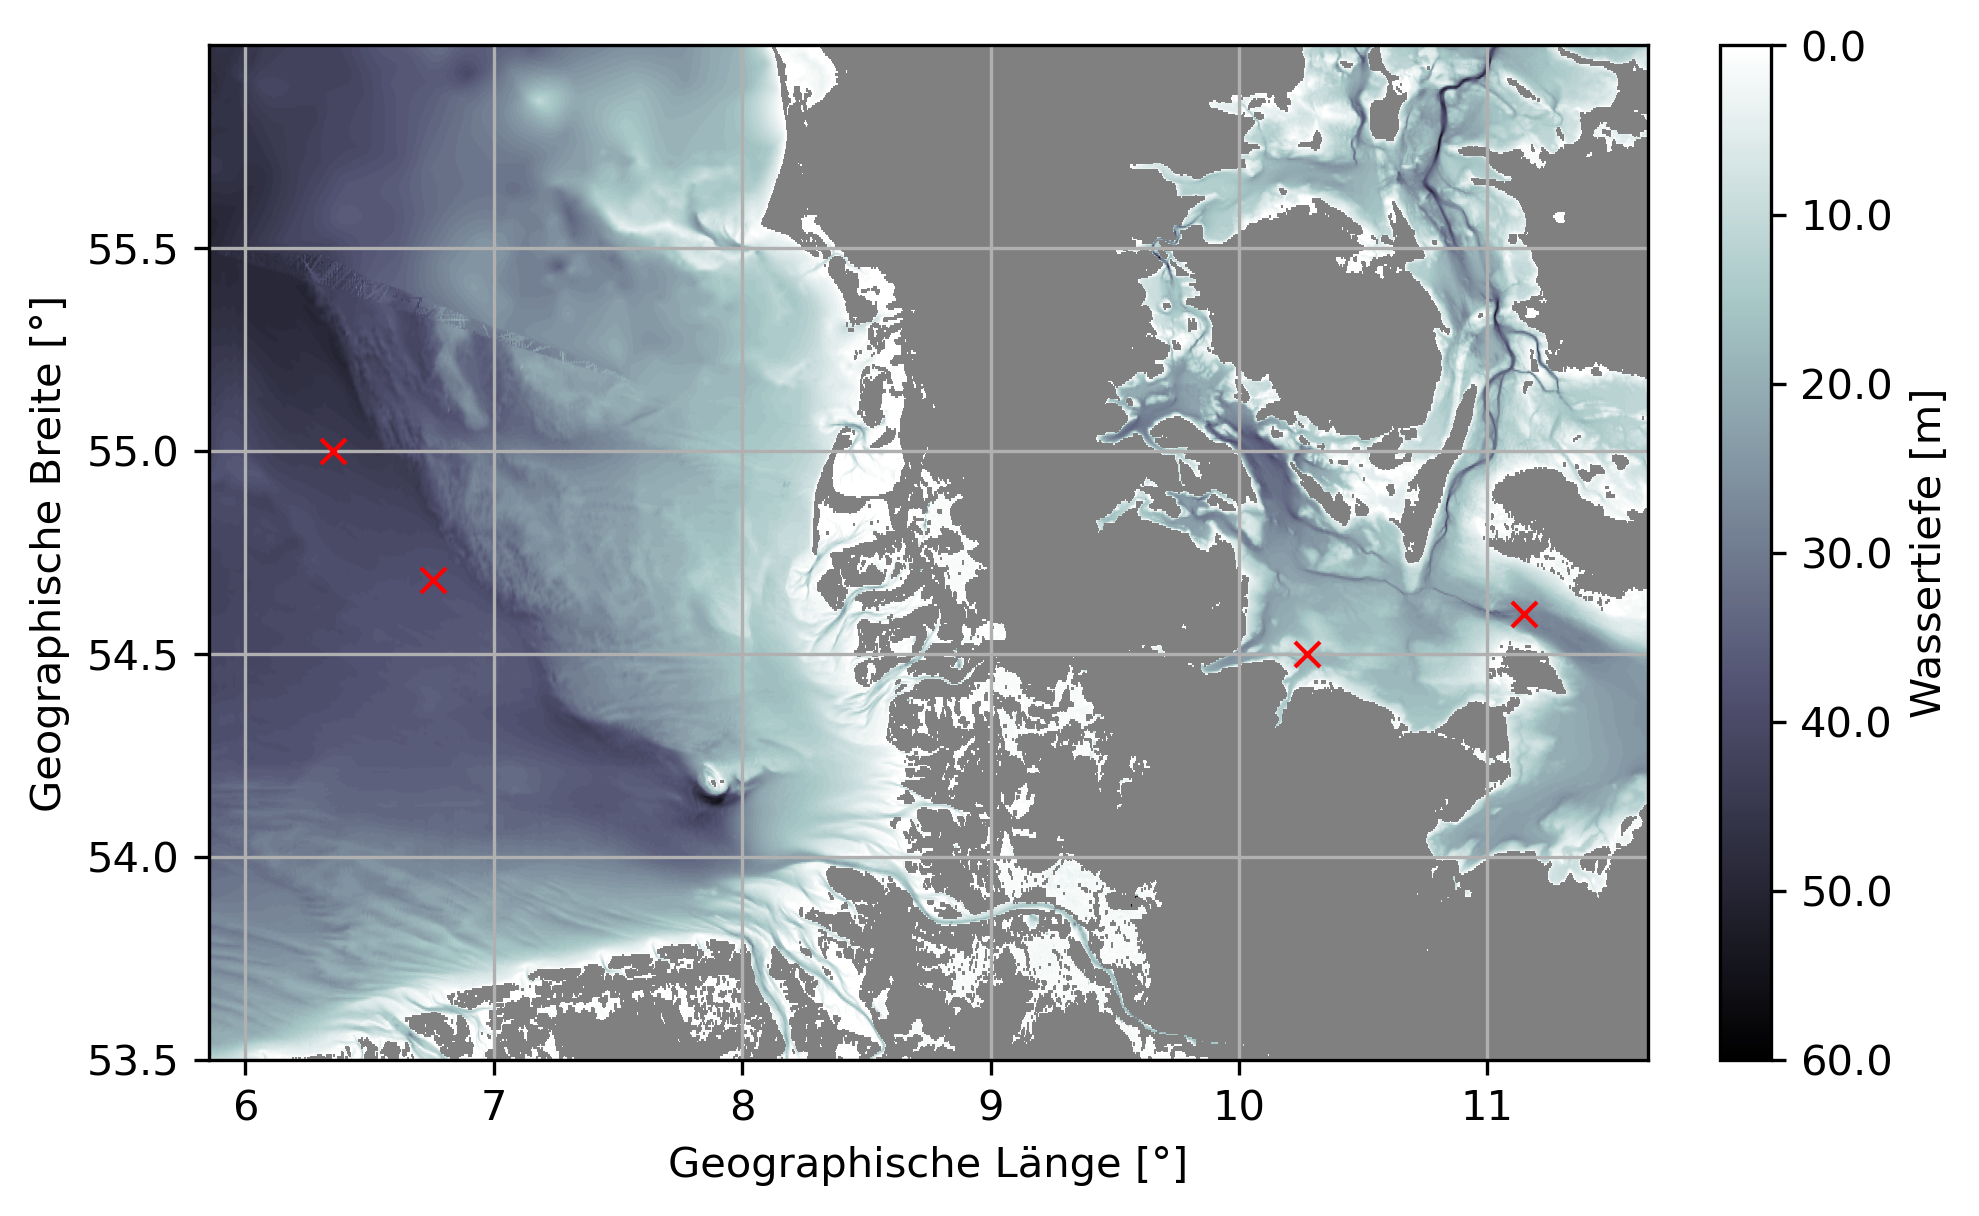
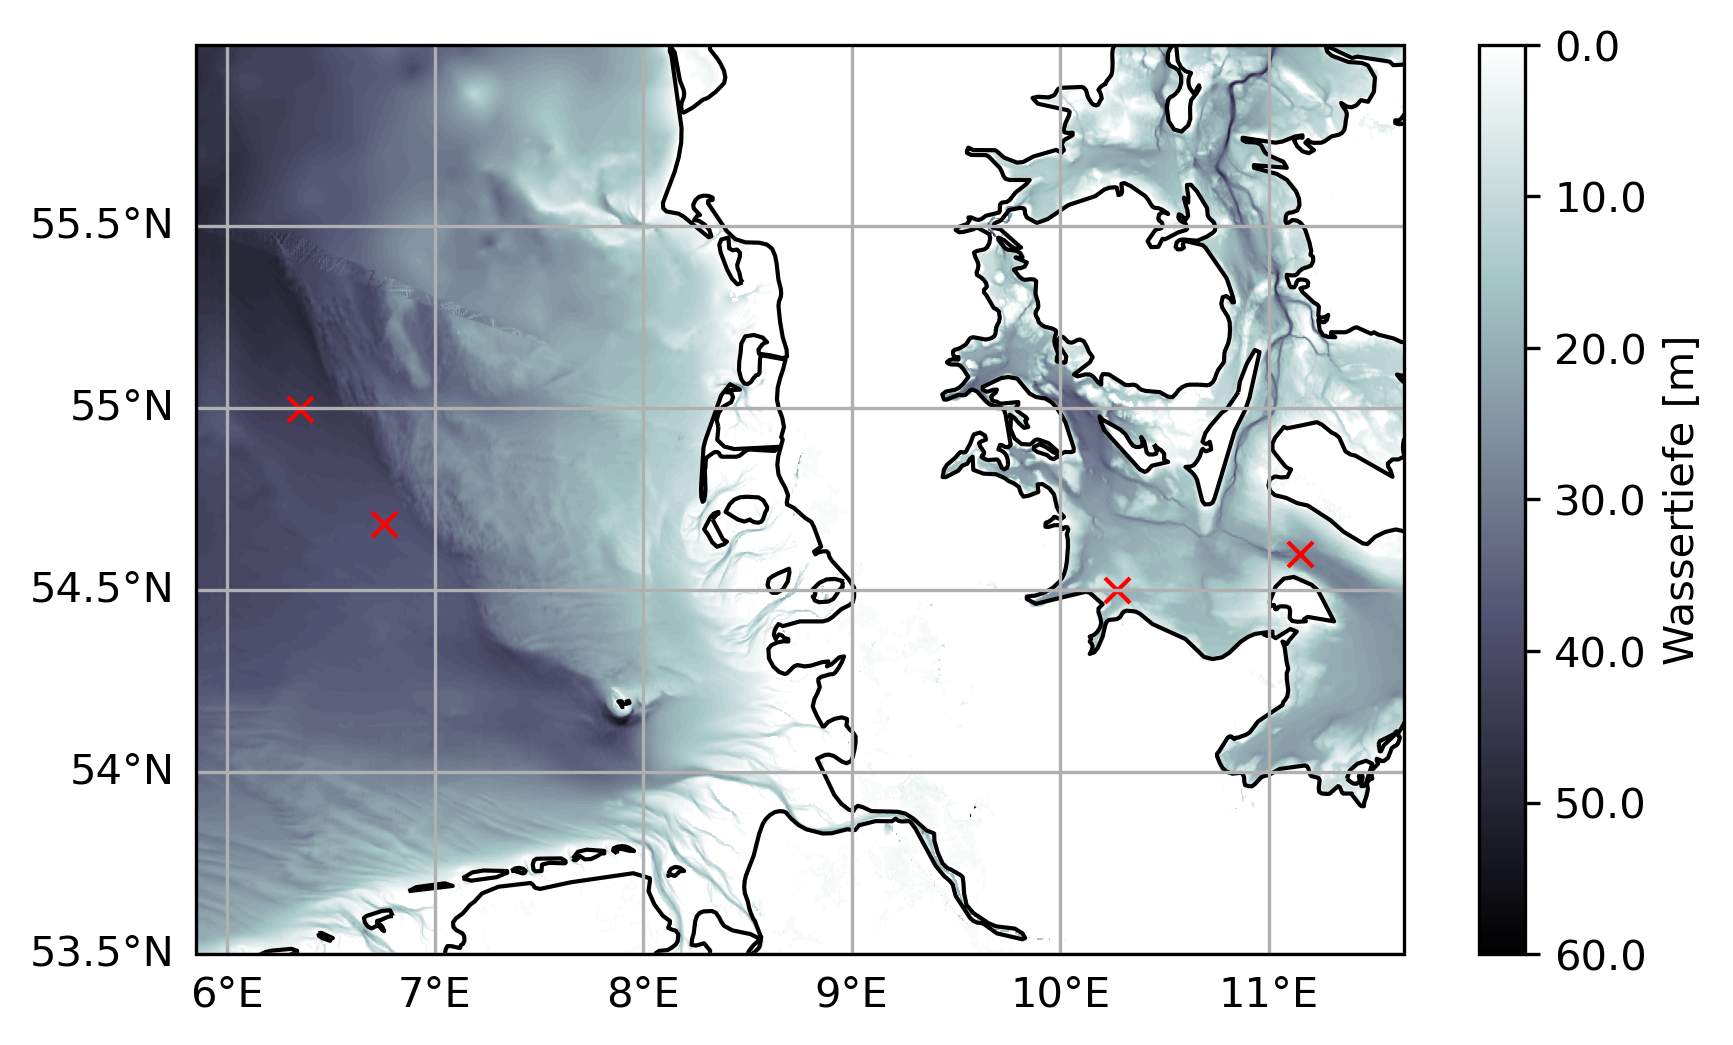
Added coastline to bathymetry plot with stations

diff --git a/Misc/map_stations.py b/Misc/map_stations.py
@@ -7,6 +7,8 @@ Created on Mon Aug 12 15:01:42 2024
 
 import matplotlib
 import matplotlib.pyplot as plt
+import cartopy.feature as cfeature
+import cartopy.crs as ccrs
 import numpy as np
 import os
 
@@ -15,7 +17,7 @@ import sys
 
 abspath = os.path.abspath("B_ExpDatAn/Code")
 sys.path.insert(0, abspath)
-from common_variables import cm, fs, bbox_inches, layout  # noqa: E402
+from common_variables import cm, fs, bbox_inches, stationsdict, layout  # noqa: E402
 
 def map_stations(
     lat=[54.5981666667, 54.4995, 54.9983333333, 54.6827833333],
@@ -23,12 +25,12 @@ def map_stations(
 ):
     # define everything that has to do with the resulting figure
     plt.rcParams["figure.figsize"][1] = 10 * cm
-    plt.figure(layout=layout)
+    plt.figure()#layout=layout)
     savefigpath = "Misc/map_stations.png"
     dlon = 0.5
     dlat = 1
     cmap = matplotlib.cm.bone
-    cmap.set_bad("gray", 1.0)
+    cmap.set_bad("white", 1.0)
 
     # extent of map
     extent = [min(lon) - dlon, max(lon) + dlon, min(lat) - dlat, max(lat) + dlat]
@@ -55,21 +57,27 @@ def map_stations(
     elev[landmask] = np.nan
 
     # plot elevation
-    axx = plt.axes()
+    axx = plt.axes(projection=ccrs.PlateCarree())
     im = plt.imshow(
         np.flipud(elev), interpolation=None, extent=extent, cmap=cmap, aspect="auto"
     )
 
+    # labels etc-
+    gridlines = axx.gridlines(draw_labels=True)
+    gridlines.xlabels_top=False
+    gridlines.ylabels_right=False
+    axx.set_xlabel("Geographische Länge [°]", fontsize=fs)
+    axx.set_ylabel("Geographische Breite [°]", fontsize=fs)
+    plt.clim(-60, 0)
+
+
     # Add station positions
     plt.plot(lon, lat, "rx")
-    plt.xlabel("Geographische Länge [°]", fontsize=fs)
-    plt.ylabel("Geographische Breite [°]", fontsize=fs)
-    plt.clim(-60, 0)
-    plt.grid()
+
+    # Add coastline    
+    axx.add_feature(cfeature.COASTLINE)
     
     #  colorbar
-    #cax = fig.add_axes([ax.get_position().x1+0.01,ax.get_position().y0,0.02,ax.get_position().height])
-    #cb = plt.colorbar(im, cax=cax, label = "Wassertiefe [m]") 
     cb = plt.colorbar(im, label = "Wassertiefe [m]", shrink=1.0, ax=axx) 
     cb.ax.tick_params(labelsize=fs)
     labels = [str(ll).replace('-', '') for ll in cb.get_ticks()]
